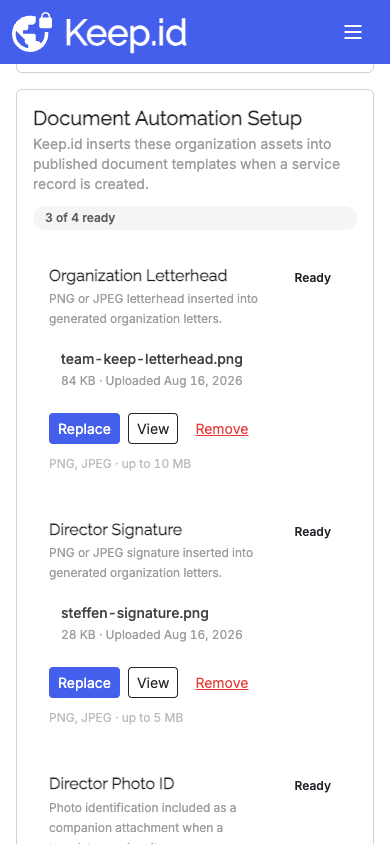
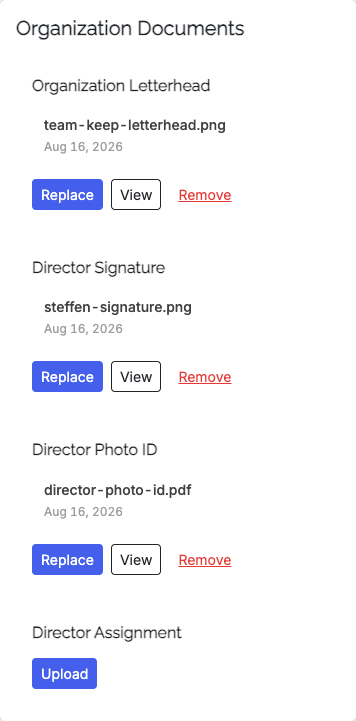
Simplify organization document setup

diff --git a/src/components/AccountSettings/MyOrganization.tsx b/src/components/AccountSettings/MyOrganization.tsx
@@ -941,19 +941,7 @@ const MyOrganization: React.FC<Props> = ({ name, organization, role, alert }) =>
 
           <div className="card mt-3 mb-3 pl-5 pr-5">
             <div className="card-body">
-              <div className="tw-flex tw-flex-col sm:tw-flex-row sm:tw-items-start sm:tw-justify-between tw-gap-3 tw-mb-5">
-                <div>
-                  <h5 className="card-title tw-mb-1">Document Automation Setup</h5>
-                  <p className="tw-text-sm tw-text-gray-500 tw-mb-0">
-                    Keep.id inserts these organization assets into published document templates when a service record is created.
-                  </p>
-                </div>
-                {!isLoadingAssets && documentAssets.length > 0 && (
-                  <span className="tw-shrink-0 tw-rounded-full tw-bg-gray-100 tw-px-3 tw-py-1 tw-text-xs tw-font-semibold tw-text-gray-700">
-                    {documentAssets.filter((item) => item.asset).length} of {documentAssets.length} ready
-                  </span>
-                )}
-              </div>
+              <h5 className="card-title tw-mb-5">Organization Documents</h5>
 
               {isLoadingAssets && (
                 <p className="tw-text-gray-500 tw-py-4 tw-mb-0">Loading setup...</p>
@@ -972,22 +960,12 @@ const MyOrganization: React.FC<Props> = ({ name, organization, role, alert }) =>
                         key={assetRole.roleKey}
                         className={`tw-rounded-xl tw-border tw-p-4 ${assetRole.asset ? 'tw-border-emerald-200 tw-bg-emerald-50/40' : 'tw-border-gray-200 tw-bg-white'}`}
                       >
-                        <div className="tw-flex tw-items-start tw-justify-between tw-gap-3">
-                          <div>
-                            <h6 className="tw-mb-1 tw-font-semibold tw-text-gray-900">{assetRole.displayName}</h6>
-                            <p className="tw-mb-0 tw-text-xs tw-leading-5 tw-text-gray-500">{assetRole.description}</p>
-                          </div>
-                          <span className={`tw-shrink-0 tw-rounded-full tw-px-2.5 tw-py-1 tw-text-xs tw-font-semibold ${assetRole.asset ? 'tw-bg-emerald-100 tw-text-emerald-700' : 'tw-bg-amber-100 tw-text-amber-700'}`}>
-                            {assetRole.asset ? 'Ready' : 'Needed'}
-                          </span>
-                        </div>
+                        <h6 className="tw-mb-0 tw-font-semibold tw-text-gray-900">{assetRole.displayName}</h6>
 
                         {assetRole.asset && (
                           <div className="tw-mt-3 tw-rounded-lg tw-border tw-border-gray-200 tw-bg-white tw-px-3 tw-py-2">
                             <div className="tw-truncate tw-text-sm tw-font-medium tw-text-gray-800">{assetRole.asset.filename}</div>
-                            <div className="tw-mt-1 tw-text-xs tw-text-gray-500">
-                              {(assetRole.asset.byteSize / 1024).toFixed(0)} KB · Uploaded {formatDate(assetRole.asset.uploadedAt)}
-                            </div>
+                            <div className="tw-mt-1 tw-text-xs tw-text-gray-500">{formatDate(assetRole.asset.uploadedAt)}</div>
                           </div>
                         )}
 
@@ -1031,9 +1009,6 @@ const MyOrganization: React.FC<Props> = ({ name, organization, role, alert }) =>
                             </button>
                           )}
                         </div>
-                        <p className="tw-mt-3 tw-mb-0 tw-text-xs tw-text-gray-400">
-                          {assetRole.acceptedMimeTypes.map((mime) => mime.replace('image/', '').replace('application/', '')).join(', ').toUpperCase()} · up to {(assetRole.maxBytes / (1024 * 1024)).toFixed(0)} MB
-                        </p>
                       </section>
                     );
                   })}
